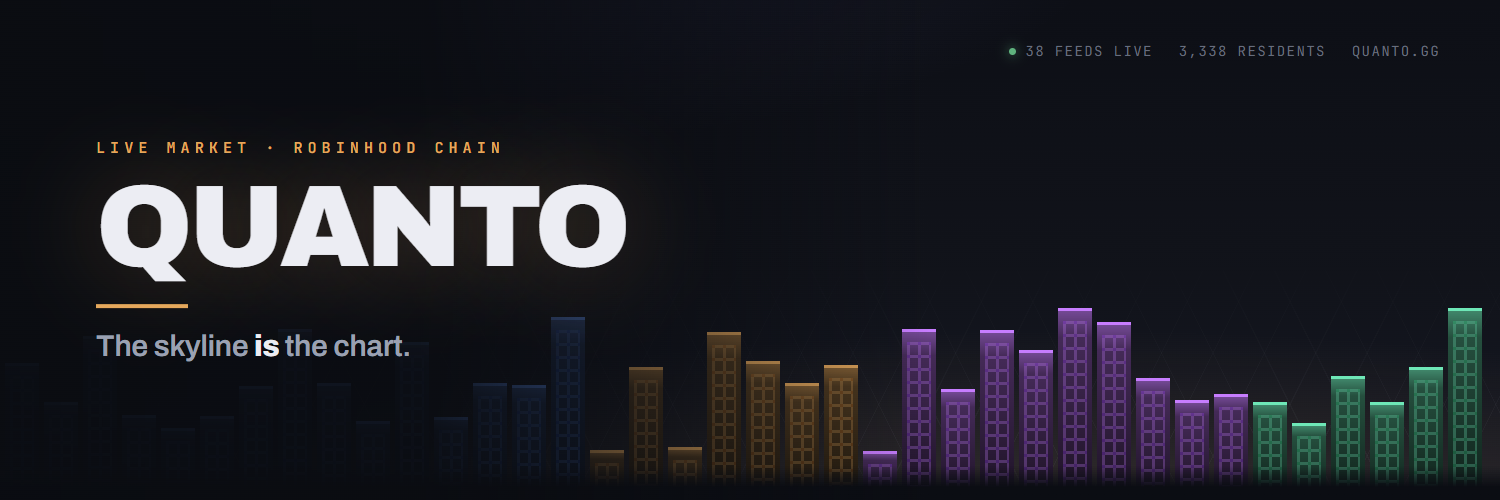
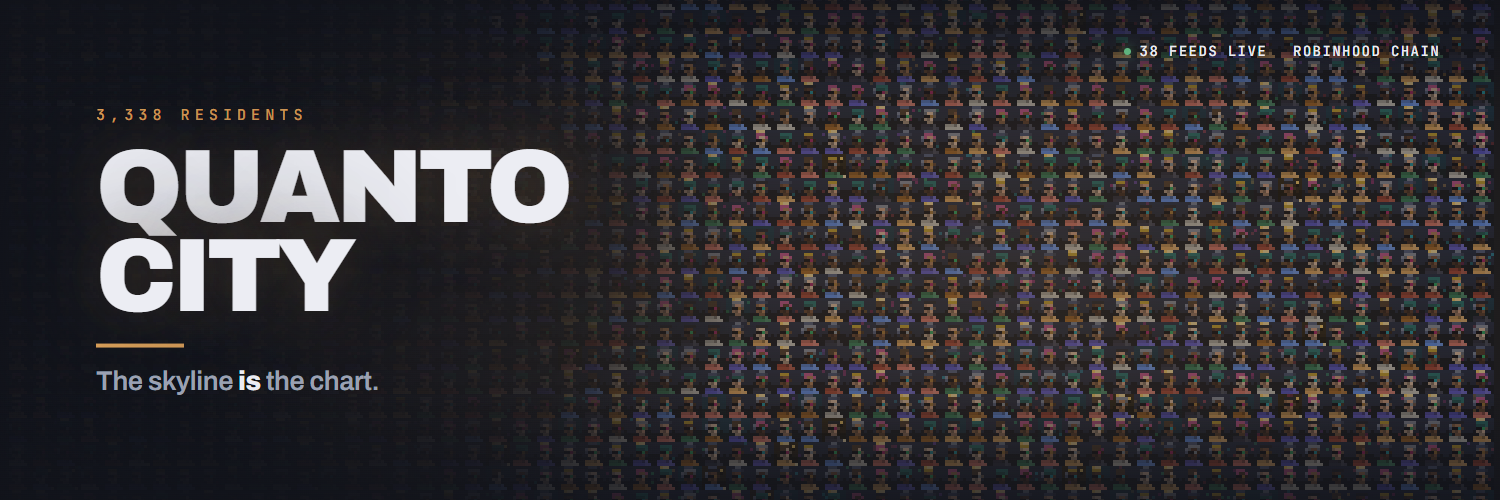
The X header is the collection now, not a drawn skyline
Same idea as the square cover, rebuilt for 1500x500.

The header needed its own grid rather than a crop of the square one, and
the reason is arithmetic. 32 divides cleanly only by 1, 2, 4, 8, 16 and
32, and pixel art rescaled at anything else turns to mush, so the only
layouts available are the ones where every step from the 32px portrait to
the final canvas is an integer. Fitting all 3,338 into a 1500x500 band
forces a 4px sample at 125x42, which puts each face at 12 pixels.

Twelve is too small. Rendered both and compared: at 12px the crowd reads
as coloured grain, which loses the one thing the header is showing, and
at 24px it plainly reads as thousands of little people. The header ships
at 24px and therefore shows about 1,300 of them. The all-3,338 version is
kept alongside it, because "all of them" is a real claim and somebody may
want to make it.

Opacity differs between the two covers for the same reason. The square
can afford 0.34 because its faces are 24px; the header at that strength
turned to grain, so the field sits at 0.58 and a tighter scrim does the
legibility work in the one place type actually sits.

The generator now emits both grids from one pass, drawing each portrait
once and reusing it, since the two layouts sample the same art at
different ratios and re-rendering would double the work for identical
pixels.

diff --git a/brand/cover-all.html b/brand/cover-all.html
@@ -54,9 +54,9 @@
   .field {
     position: absolute;
     inset: 0;
-    background-image: url("out/mosaic.png");
+    background-image: url("out/mosaic-wide.png");
     background-size: 1500px 1500px;
-    background-position: center;
+    background-position: top left;
     background-repeat: no-repeat;
     image-rendering: pixelated;
     /*
